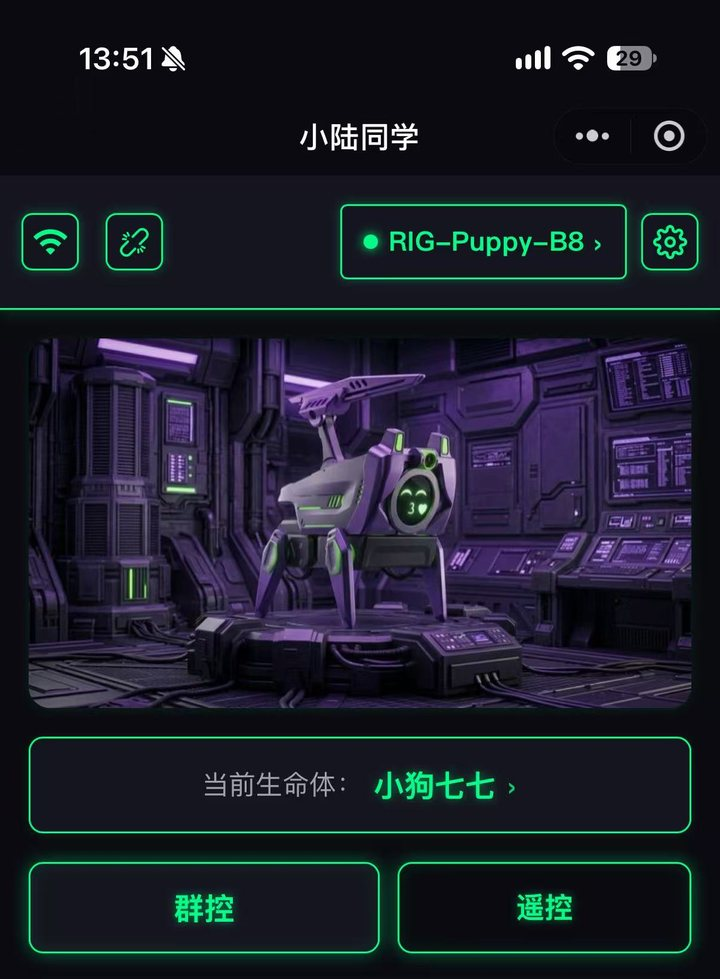
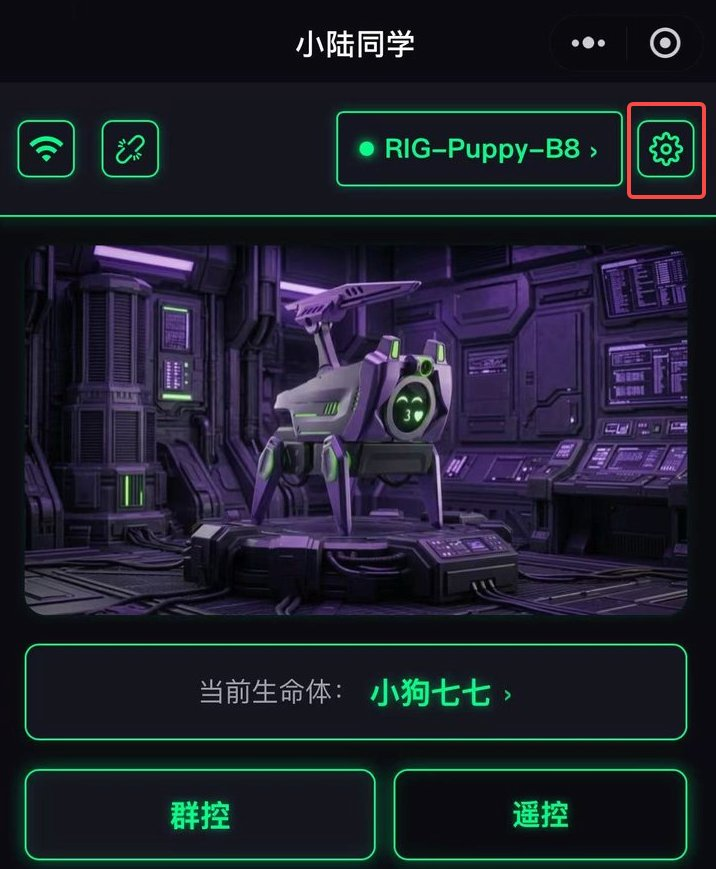
docs(site): 小程序首页图换成标好齿轮按钮的版本

diff --git a/index.html b/index.html
@@ -283,8 +283,8 @@ footer{padding:30px 0 50px;color:var(--mute);font-size:13px;text-align:center}
       <div class="shots">
         <figure class="tall"><a href="assets/guide-qr.jpg" target="_blank" rel="noopener"><img src="assets/guide-qr.jpg" alt="六六的圆屏上显示小程序码" loading="lazy"></a>
         <figcaption><b>① 扫码进小程序</b><br>六六的圆屏上就有小程序码，手机扫它。</figcaption></figure>
-        <figure class="tall"><a href="assets/guide-home.jpg" target="_blank" rel="noopener"><img src="assets/guide-home.jpg" alt="小程序首页：设备在线、当前生命体" loading="lazy"></a>
-        <figcaption><b>② 确认设备在线</b><br>顶部是设备名，绿点表示已连上。</figcaption></figure>
+        <figure class="tall"><a href="assets/guide-home.jpg" target="_blank" rel="noopener"><img src="assets/guide-home.jpg" alt="小程序首页：设备名旁有绿点表示在线，右上角齿轮用红框标出" loading="lazy"></a>
+        <figcaption><b>② 点右上角齿轮</b><br>绿点亮＝设备在线；点红框里的齿轮进「设备设置」。</figcaption></figure>
         <figure class="tall"><a href="assets/guide-mcp.jpg" target="_blank" rel="noopener"><img src="assets/guide-mcp.jpg" alt="设备设置页的 MCP 控制设备区域与复制配置按钮" loading="lazy"></a>
         <figcaption><b>③ 设备设置 → MCP 控制设备</b><br>点「复制配置」，粘给 AI。图里的密钥已抹掉。</figcaption></figure>
       </div></div>
